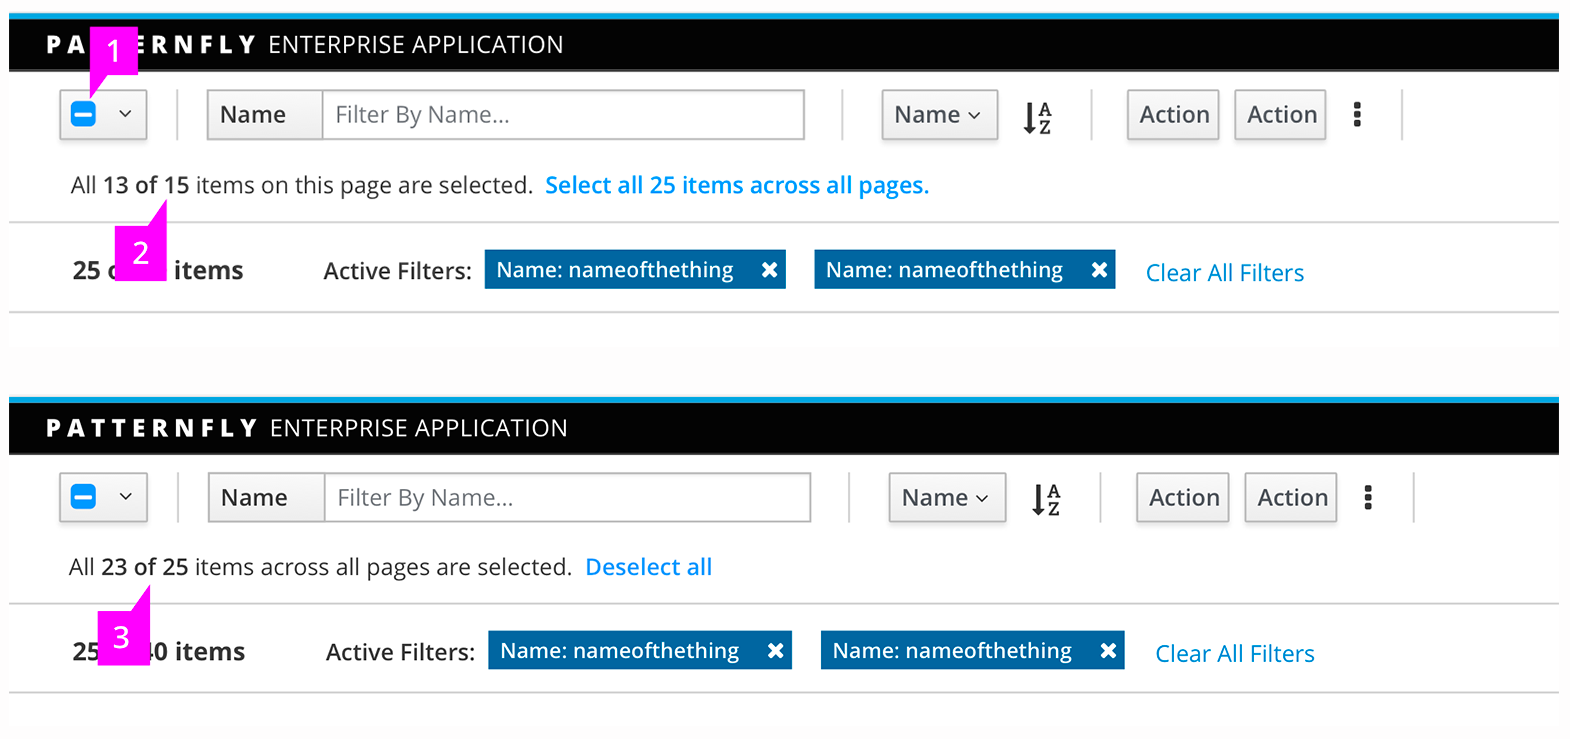
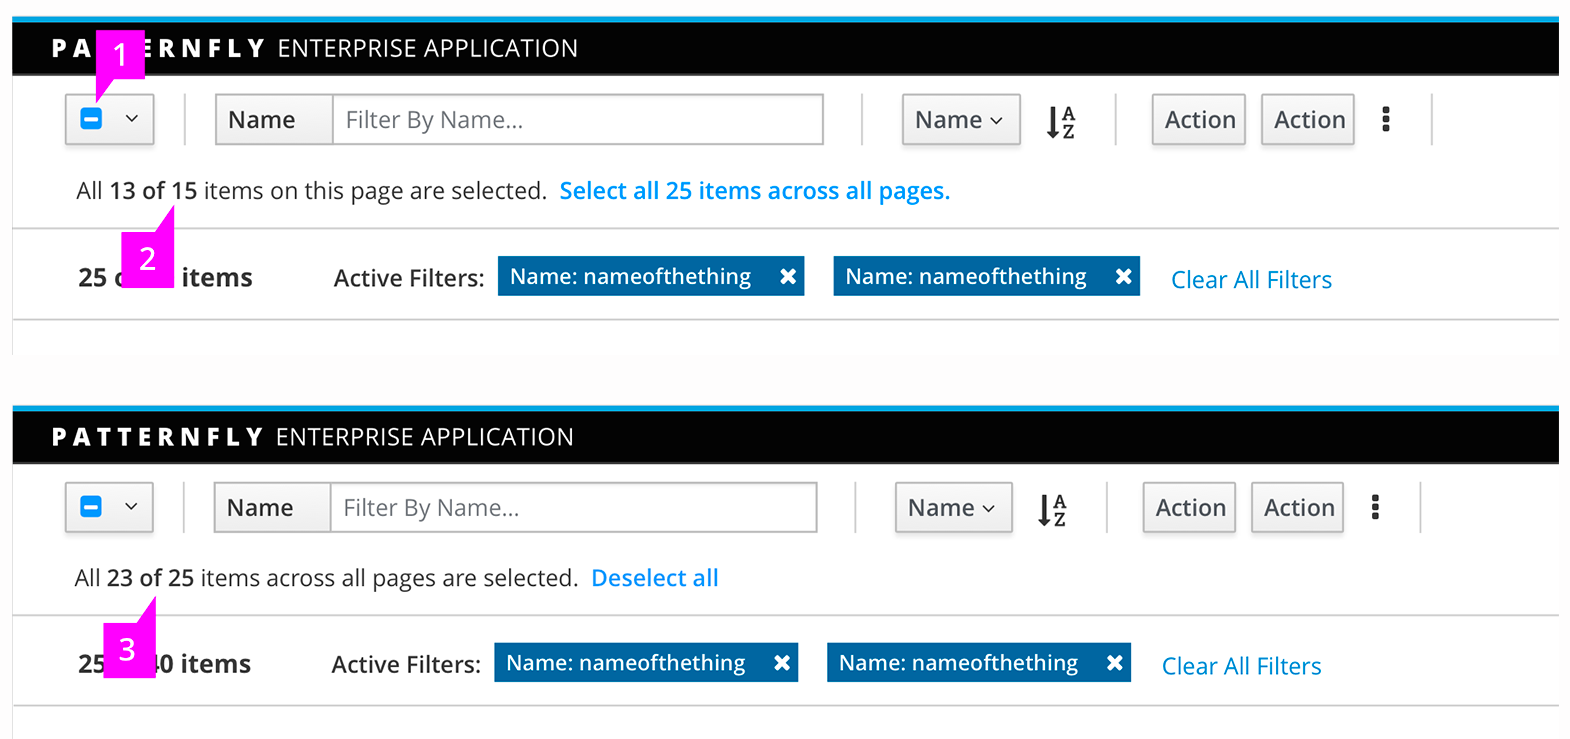
Fixed the size of intermediate checkbox

Changed region(s): [[0.0, 0.0, 0.9987, 0.4357], [0.0, 0.5291, 0.9987, 0.9337]]

diff --git a/pattern-library/forms-and-controls/bulk-selector/design/design.md b/pattern-library/forms-and-controls/bulk-selector/design/design.md
@@ -50,7 +50,7 @@ When the user has selected all items on the current page or across all pages and
 3. Checked item number of total item number across all pages
 
 
-![Bulk Selector](img/BulkSelector-Mixed_state.png)
+![Bulk Selector](img/BulkSelector-Mixed_State.png)
 
 
 
